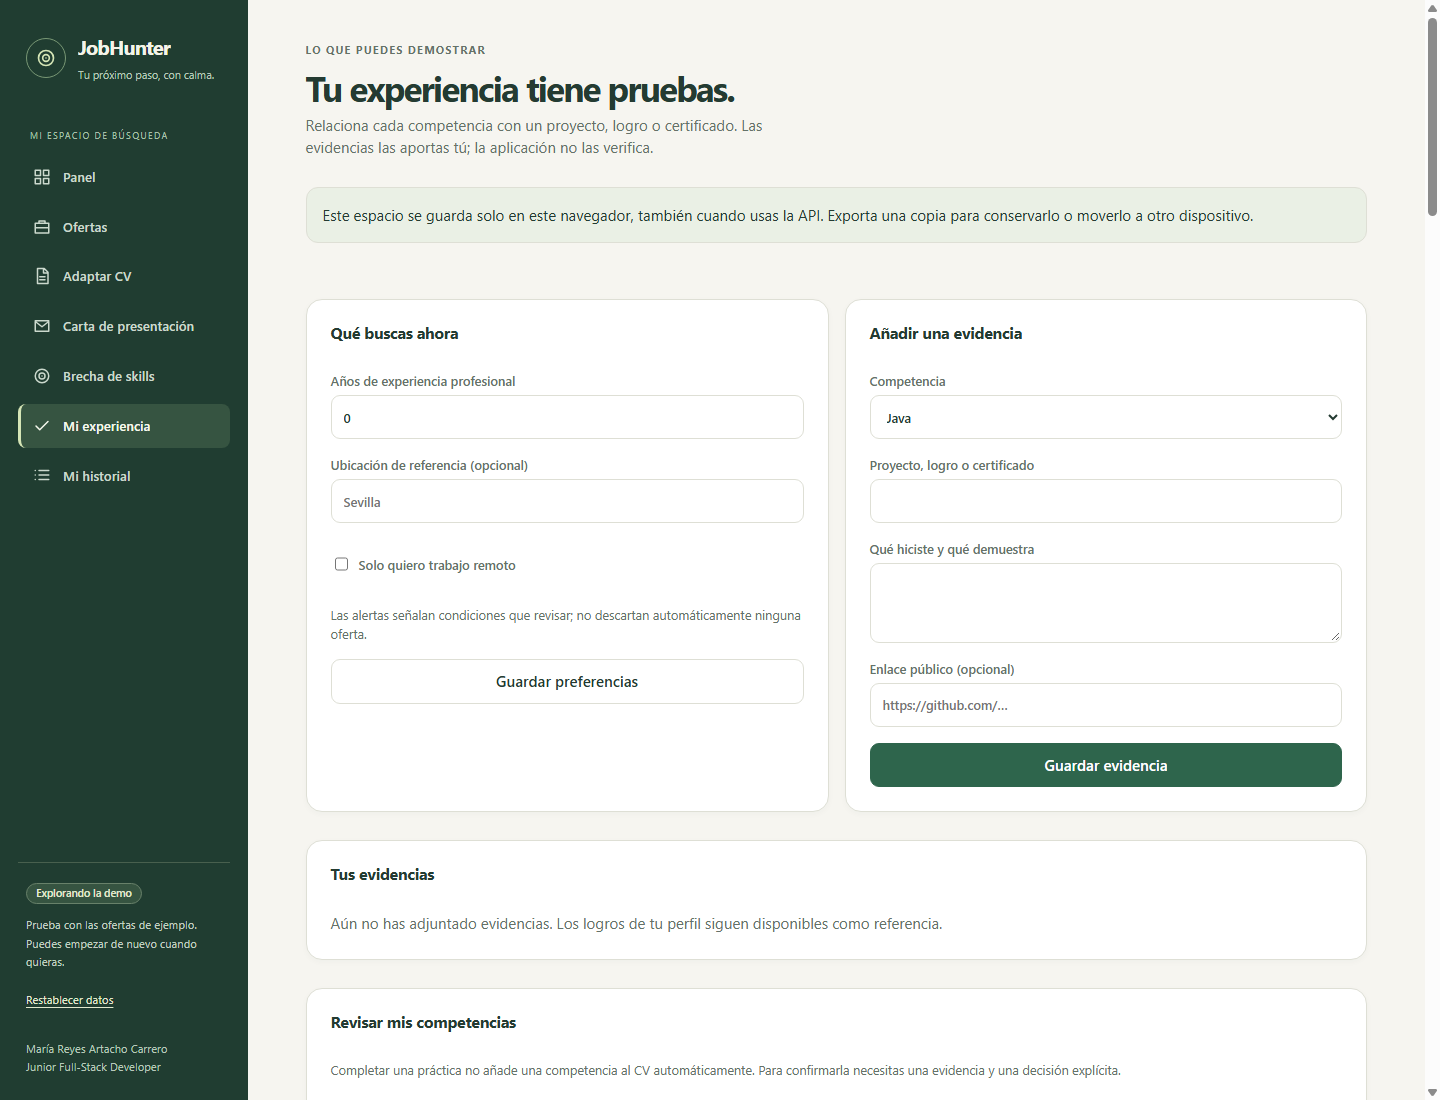
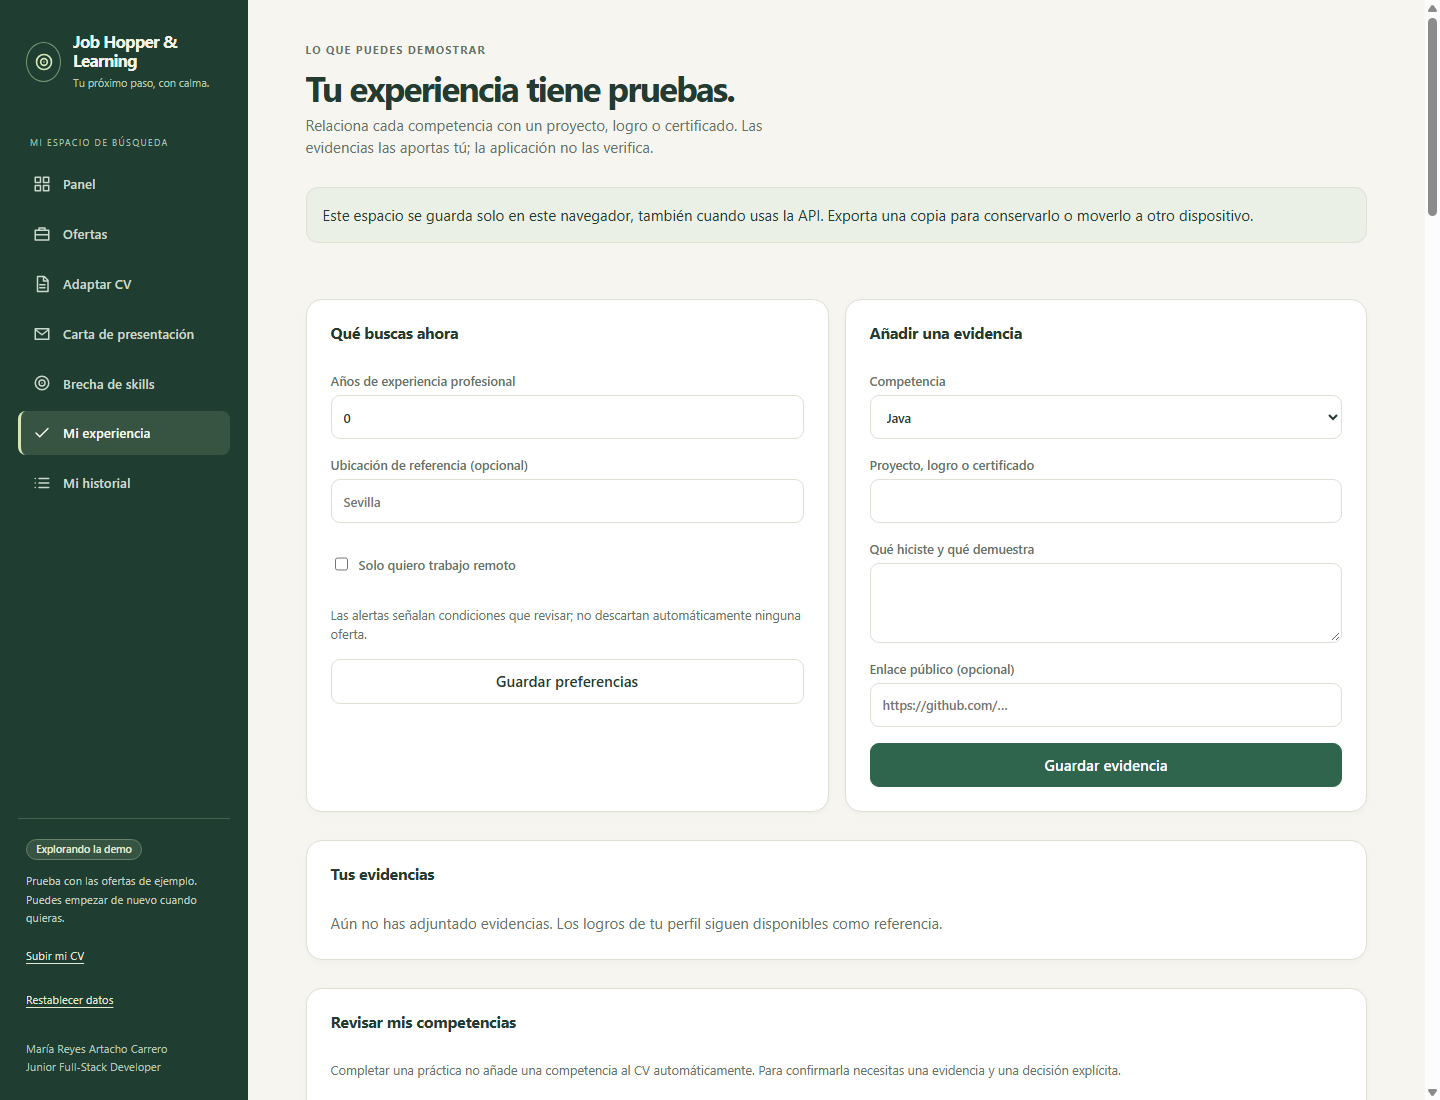
docs: update product identity and frontend screenshots
Align project and security documentation with the current product name, refresh seven frontend screenshots, and update the verified frontend test count to 95.

diff --git a/README.md b/README.md
@@ -1,4 +1,4 @@
-# JobHunter
+# Job Hopper & Learning
 
 **IT job search manager built with Angular, TypeScript, and Python (FastAPI).** Track applications, score job offers against a candidate profile, tailor CVs, generate cover letters, and identify skills gaps.
 
@@ -11,6 +11,8 @@
 **[Try the demo](https://reyes-art-car.github.io/job-scout/)** — runs without a backend, using sample data and browser storage. No account required. The application interface and sample content are currently in Spanish.
 
 ![Job search dashboard](docs/screenshots/panel.png)
+
+**Bring your own CV.** The landing page lets anyone upload a PDF, DOCX or TXT résumé. It is read in the browser (`pdfjs-dist`, `fflate`), turned into an editable profile and stored in `localStorage`; the sample offers are re-scored against that profile. Nothing is sent to a server, so there are no accounts. A "Borrar mis datos" button erases everything, and the app ships Spanish legal pages (aviso legal, privacidad, cookies, condiciones de uso).
 
 ## Features
 
@@ -141,7 +143,7 @@ npm test -- --watch=false --browsers=ChromeHeadless
 npm run build
 ```
 
-Latest local validation: **81 backend tests passed, 78 automation tests passed, and 70 frontend tests passed**. One additional backend test was skipped because creating symbolic links requires privileges on the Windows test machine. Backend coverage was **93.06%**. Linting, formatting, type checks, Bandit, and the production frontend build also passed.
+Latest local validation: **81 backend tests passed, 78 automation tests passed, and 95 frontend tests passed**. One additional backend test was skipped because creating symbolic links requires privileges on the Windows test machine. Backend coverage was **93.06%**. Linting, formatting, type checks, Bandit, and the production frontend build also passed.
 
 GitHub Actions is configured to run quality checks, dependency audits, secret scanning, and CodeQL analysis. See [CONTRIBUTING.md](CONTRIBUTING.md) for local commit hooks and contribution conventions.
 

diff --git a/frontend/README.md b/frontend/README.md
@@ -1,4 +1,4 @@
-# Frontend · JobHunter
+# Frontend · Job Hopper & Learning
 
 Angular 20 con componentes standalone, signals y carga diferida por ruta. Ver [docs/ARCHITECTURE.md](../docs/ARCHITECTURE.md).
 
@@ -6,7 +6,7 @@ Angular 20 con componentes standalone, signals y carga diferida por ruta. Ver [d
 npm ci
 npm start                                                    # http://localhost:4200 · /api → localhost:8000
 npm run build                                                # dist/job-hunter/browser
-npx ng test --watch=false --browsers=ChromeHeadless          # 70 pruebas (necesita Chrome)
+npx ng test --watch=false --browsers=ChromeHeadless          # 95 pruebas (necesita Chrome)
 npx ng lint                                                  # ESLint con reglas de código limpio y seguridad
 ```
 

diff --git a/docs/SECURITY.md b/docs/SECURITY.md
@@ -5,7 +5,7 @@ informar de una vulnerabilidad está en [SECURITY.md](../SECURITY.md).
 
 ## Qué hay que proteger
 
-JobHunter maneja datos personales de una candidatura (currículums, cartas, teléfono, correo, la evaluación de cada
+Job Hopper & Learning maneja datos personales de una candidatura (currículums, cartas, teléfono, correo, la evaluación de cada
 oferta) y ejecuta contenido que **no controla**: anuncios de empleo leídos de internet, salida de un modelo de
 lenguaje y ficheros Excel importados.
 

diff --git a/SECURITY.md b/SECURITY.md
@@ -2,7 +2,7 @@
 
 ## Cómo informar de una vulnerabilidad
 
-Escribe a **mariareyesartcar@gmail.com** con el asunto «Seguridad · JobHunter». Por favor, **no abras un issue
+Escribe a **mariareyesartcar@gmail.com** con el asunto «Seguridad · Job Hopper & Learning». Por favor, **no abras un issue
 público** hasta que esté corregida.
 
 Incluye, si puedes: qué has encontrado, cómo reproducirlo, qué impacto tiene y la versión o *commit* afectado.

diff --git a/docs/ARCHITECTURE.md b/docs/ARCHITECTURE.md
@@ -1,6 +1,6 @@
 # Arquitectura
 
-JobHunter son tres piezas que comparten un único modelo de oferta (`Offer`):
+Job Hopper & Learning son tres piezas que comparten un único modelo de oferta (`Offer`):
 
 ```mermaid
 flowchart LR

diff --git a/backend/README.md b/backend/README.md
@@ -1,4 +1,4 @@
-# Backend · Job Hunter API
+# Backend · Job Hopper & Learning API
 
 FastAPI con arquitectura hexagonal. Ver [docs/ARCHITECTURE.md](../docs/ARCHITECTURE.md).
 
